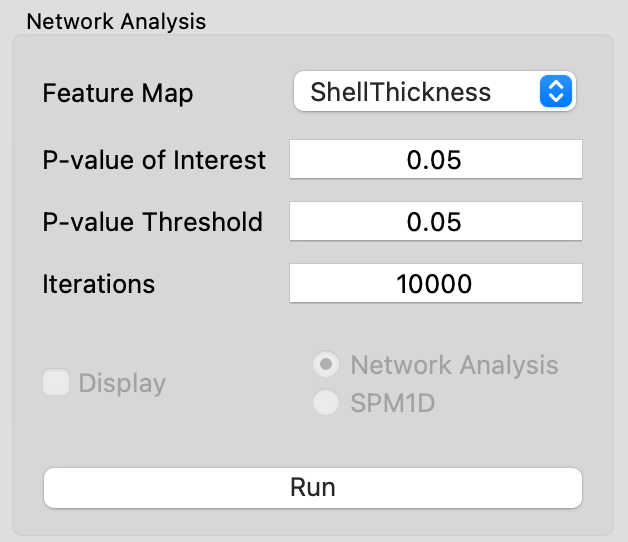
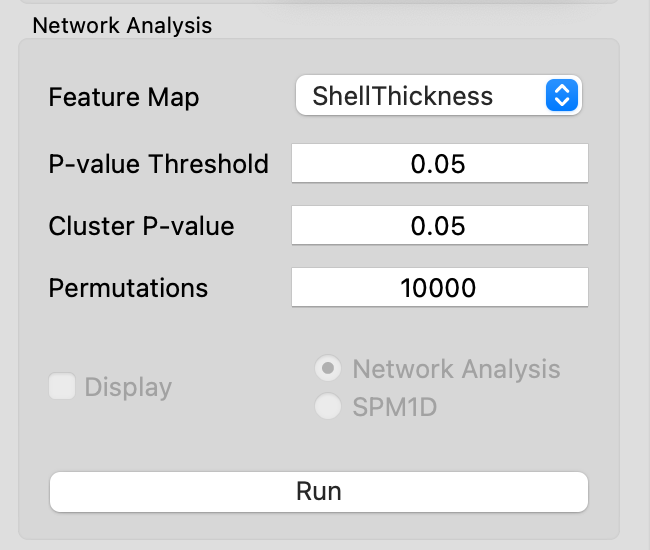
Updating Network Analysis Docs

diff --git a/docs/studio/studio-analyze.md b/docs/studio/studio-analyze.md
@@ -22,14 +22,15 @@ Additionally an LDA chart is generated for group differences:
 
 ![ShapeWorks Studio Network Analysis](../img/studio/studio_network_analysis.png){: width="200" }
 
-The correspondence network tool provides an alternative to the use of statistical parametric mapping (SPM) in statistical analysis of surface-based group differences. This technique uses the relative size of the network of connected correspondence particles to identify significant differences amongst groups, as originally described by Forman and colleagues (Forman SD, et al. Magnetic Resonance in Medicine33:636-647, 1995). Our publication on the specifics of this method and example applications is in review and will be referenced here when available.
+The Network Analysis tool provides a method to statistically analyze data captured in feature maps. Two implementations have been included: Network Analysis and SPM1D. Statistical parametric mapping (SPM, https://www.fil.ion.ucl.ac.uk/spm/) was introduced for the analysis of brain imaging data and has since been used in statistical analysis of surface-based group differences. The SPM1D option uses this technique without consideration of the connectivity and spatial relationship of the input data. The Network Analysis method uses the relative size of the network of connected correspondence particles to identify significant differences amongst groups, as originally described by Forman and colleagues (Forman SD, et al. Magnetic Resonance in Medicine33:636-647, 1995). Our publication on the specifics of this method and example applications is in review and will be referenced here when available.
 
-| Option              | Description                                                                                                                                                      |
-|---------------------|------------------------------------------------------------------------------------------------------------------------------------------------------------------|
-| Feature Map         | Choose which feature to operate on.                                                                                                                              |
-| P-value of Interest | The cluster p-value defines the p-value used to identify significant clusters for the group. Traditional statistics would assume a p-value of 0.05.              |
-| P-value Threshold   | The initial p-value used to threshold particles as an initial step to the evaluation of cluster size. Only modify from 0.05 for adjusted statistical assumptions. |
-| Display             | Choose to display Network Analysis output or SPM1D                                                                                                               |
+| Option            | Description                                                                                                                                                      |
+|-------------------|------------------------------------------------------------------------------------------------------------------------------------------------------------------|
+| Feature Map       | Choose which feature to operate on.                                                                                                                              |
+| P-value Threshold | The initial p-value used to threshold particles as an initial step to the evaluation of cluster size. Only modify from 0.05 for adjusted statistical assumptions.|
+| Cluster P-value   | The cluster p-value defines the p-value used to identify significant clusters for the group. Traditional statistics would assume a p-value of 0.05.              |
+| Permutations      | This is the number of permutations used in the analysis. The maximum value is driven by the sample size, however 10,000 is generally considered acceptably large.|
+| Display           | Choose to display Network Analysis output or SPM1D                                                                                                               |
 
 
 
